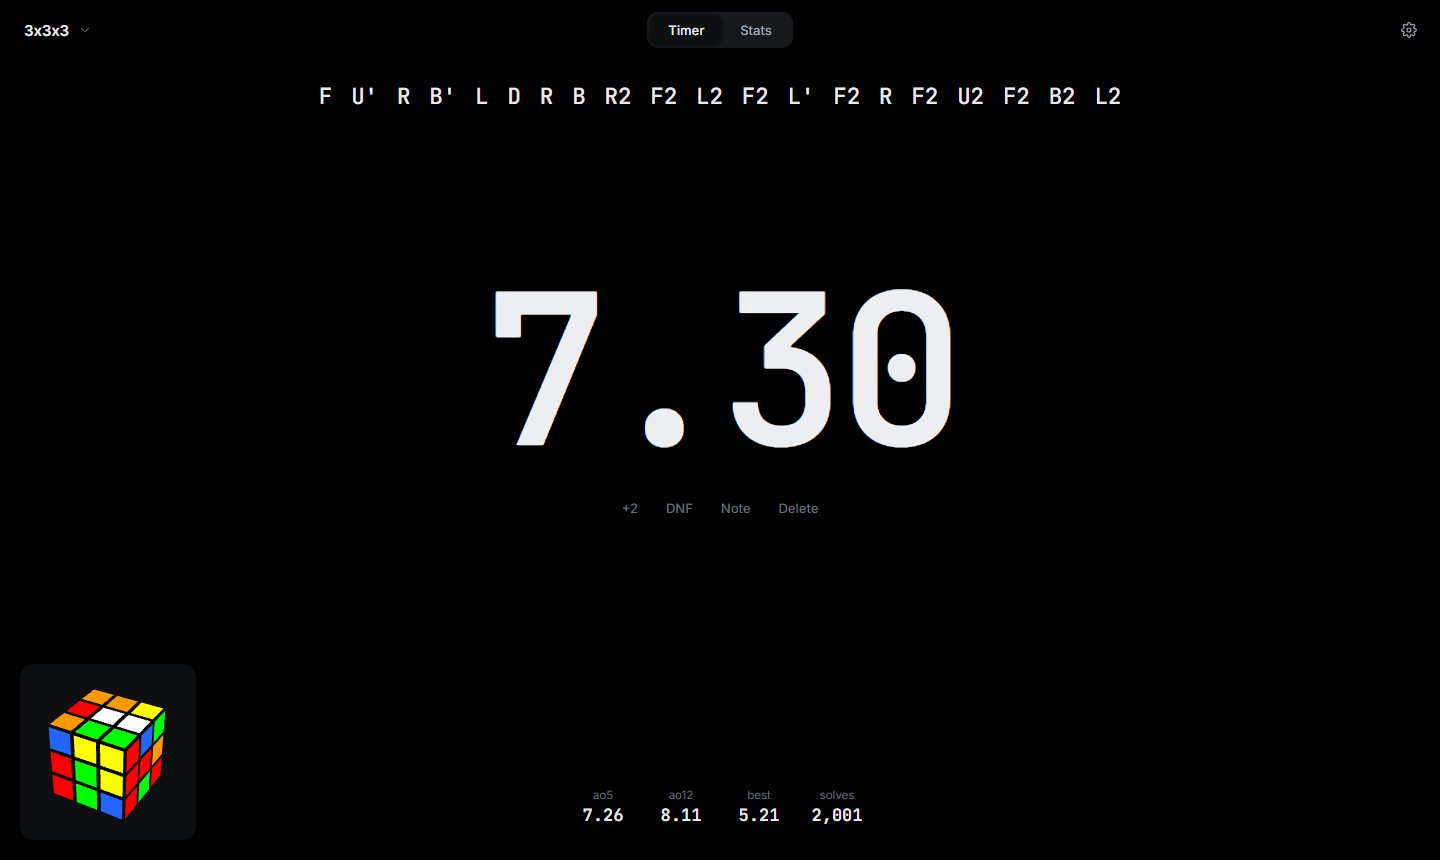
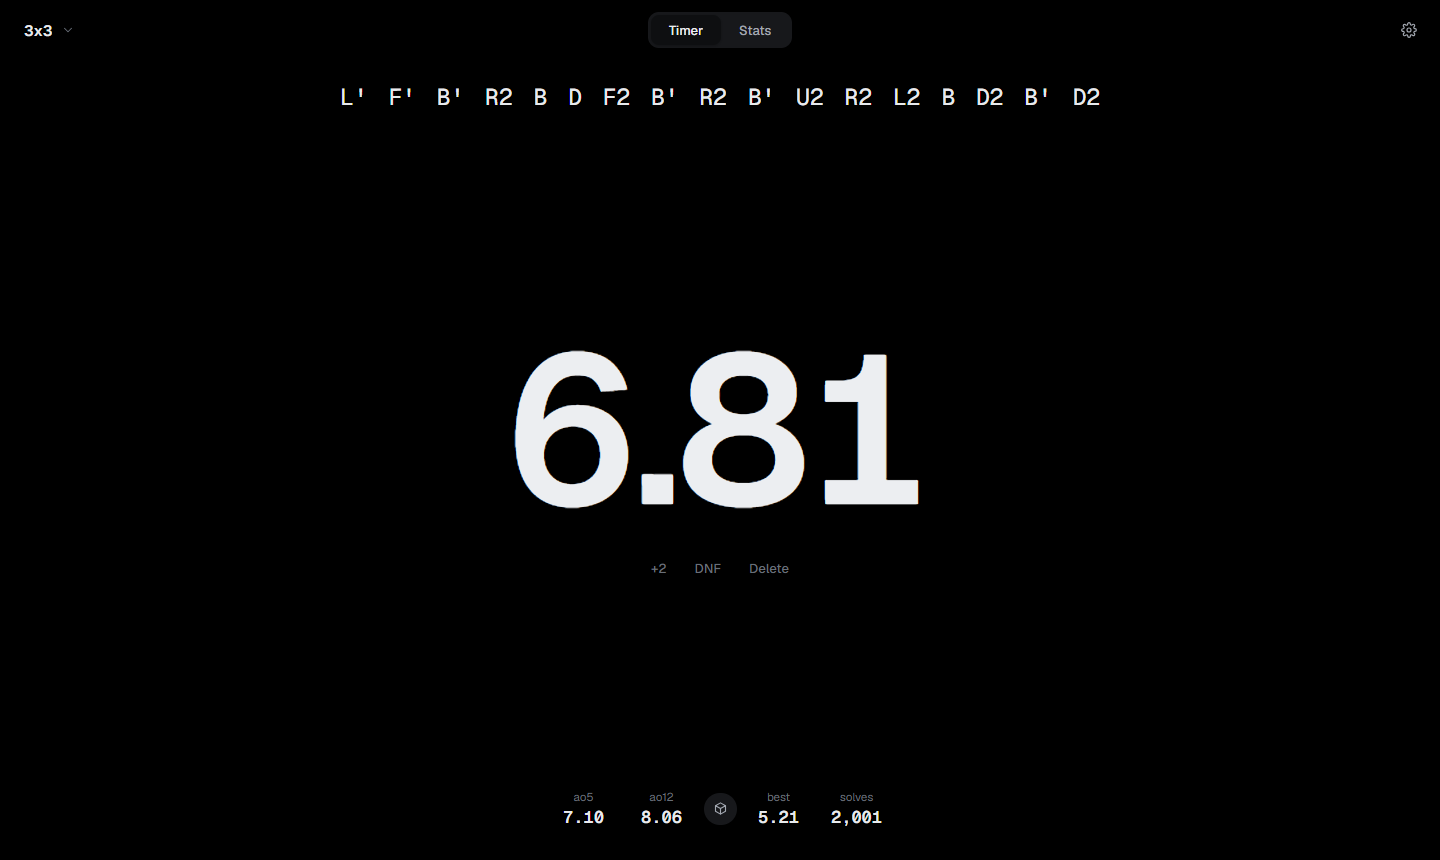
Stage remaining stuff.

diff --git a/src/index.css b/src/index.css
@@ -525,7 +525,7 @@ input[type="range"] {
   font-family: var(--font-ui);
   font-weight: 600;
   line-height: 1;
-  letter-spacing: -0.04em;
+  letter-spacing: -0.015em;
   font-variant-numeric: tabular-nums;
   white-space: nowrap;
   color: var(--text);

diff --git a/README.md b/README.md
@@ -1,82 +1,37 @@
 # KubeTimr
 
-A clean speedcubing timer that does what csTimer does, with every cube getting its own profile. No accounts, nothing leaves your browser.
+A clean speedcubing timer that does everything csTimer does, with every cube getting its own profile. There are no accounts and nothing leaves your browser.
 
 <table>
   <tr>
-    <td align="center"><img src="screenshots/img1.png" width="400" alt="Timer"/><br/><em>Timer</em></td>
-    <td align="center"><img src="screenshots/img2.png" width="400" alt="Stats"/><br/><em>Stats for the active cube</em></td>
+    <td align="center"><img src="screenshots/img1.png" width="400" alt="Timer"/><br/><em>Timer.</em></td>
+    <td align="center"><img src="screenshots/img2.png" width="400" alt="Stats"/><br/><em>Stats for the active cube.</em></td>
   </tr>
-  <tr>
-    <td align="center"><img src="screenshots/img3.png" width="400" alt="Cube picker"/><br/><em>Every cube has its own profile</em></td>
-    <td align="center"><img src="screenshots/img4.png" width="400" alt="Scramble inspector"/><br/><em>3D scramble with cross solutions</em></td>
   </tr>
 </table>
 
 ## How it works
 
-There are two screens, **Timer** and **Stats**, and one cube switcher.
+There are two screens, Timer and Stats, plus a cube menu.
 
-- **Cube profiles.** 3x3, 2x2, OH, PLL training and the rest each keep their own solves, averages and records. Pick a cube with the switcher (or press `E`) and you're in that profile.
-- **Timer.** Shows the scramble, the time, and one line of stats. Everything else stays hidden until you need it.
-- **Stats.** Best and current for every average, a trend chart, a distribution, and the full solve table.
+- **Cube profiles.** 3x3, 2x2, OH, PLL training and the rest each keep their own solves, averages and records. Pick a cube from the menu under its name and you are in that profile.
+- **Timer.** Shows the scramble, the time and one line of stats. Everything else stays out of the way until you need it.
+- **Guide.** The small cube in the stats line opens a 3D walkthrough. Scramble shows how to scramble the cube move by move, and Solve plays a solution move by move.
+- **Stats.** Best and current for every average, a trend chart, a distribution and the full solve table.
 
 ## Features
 
-- Hold space or touch until green, release to start, any key stops (csTimer style)
-- WCA inspection with +2 and DNF rules, plus spoken or beeped 8 and 12 second calls
-- Split phases with CFOP, Roux, ZZ and BLD presets
-- Typing mode for stackmat times (`1234` is 12.34)
-- Random state scrambles for every WCA event, plus FTO, Kilominx, Redi Cube, relays and no scramble
-- 3x3 training sets: LL, PLL, OLL, ZBLL, COLL, 2GLL, ELL, CLL, LSLL, F2L, Easy Cross, edges or corners only, Roux CMLL and L6E
-- 3D scramble preview (Square-1 and Clock have no 3D model, so they show none)
-- Optimal cross for all six colors in the scramble inspector
-- Averages with WCA trimming (5% per side, rounded up), click any average for its breakdown
-- csTimer import sorts each session into the matching cube profile and skips solves you already have
-- Export to csTimer, a full KubeTimr backup, or CSV per cube
-- Data from older KubeTimr versions migrates automatically
-- Four themes and an accent color
-
-## Shortcuts
-
-| Key | Action |
-|-----|--------|
-| `Space` | Hold, then release to start |
-| Any key | Stop the timer |
-| `Esc` | Cancel inspection, close, back to timer |
-| `Alt 1` `Alt 2` `Alt 3` | Last solve OK, +2, DNF |
-| `Alt Z` | Delete last solve |
-| `R` / `Shift R` | Next / previous scramble |
-| `E` | Switch cube |
-| `Alt ↑` `Alt ↓` | Cycle through cubes you use |
-| `S` | Timer or stats |
-| `I` | Inspection on or off |
-| `F` | Fullscreen |
-| `?` | All shortcuts |
-
-## Development
-
-```bash
-npm install
-npm run dev     # http://localhost:3000
-npm test
-npm run build
-```
-
-## Structure
-
-```
-src/
-├── core/           logic with no ui, unit tested
-│   ├── timer.ts    timer state machine
-│   ├── stats.ts    averages, rolling series, records
-│   ├── events.ts   scramble types, which are also the cube profiles
-│   ├── cstimer.ts  import and export
-│   ├── persistence.ts, migrate.ts
-│   └── scramble/   scramble service, training subsets, cross solver
-├── state/          app store and memoized stats
-└── ui/             TimerScreen, StatsScreen and components
-```
+- Hold space or touch until the timer turns green, release to start, and press any key to stop.
+- WCA inspection with the +2 and DNF rules, plus spoken or beeped calls at 8 and 12 seconds.
+- Split phases with CFOP, Roux, ZZ and BLD presets.
+- Typing mode for times from a stackmat, where 1234 means 12.34.
+- Random state scrambles for every WCA event, plus FTO, Kilominx, Redi Cube, relays and a no scramble option.
+- 3x3 training sets for LL, PLL, OLL, ZBLL, COLL, 2GLL, ELL, CLL, LSLL, F2L, Easy Cross, edges only, corners only, Roux CMLL and L6E.
+- Real solutions in the guide for 3x3 events, 2x2 and Pyraminx. Other puzzles play the scramble back in reverse. Square-1 and Clock have no 3D model, so they have no guide.
+- Averages use WCA trimming of 5% per side, rounded up. Click any average to see its breakdown.
+- csTimer import sorts each session into the matching cube profile and skips solves you already have.
+- Export to csTimer, a full KubeTimr backup, or a CSV file per cube.
+- Data from older KubeTimr versions migrates automatically.
 
 ## License
 
